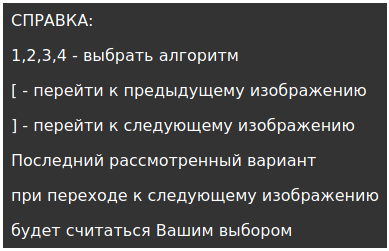
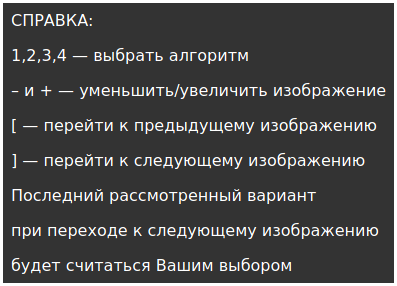
Added information about scrolling and zooming image to landing

Changed region(s): [[0.0, 0.0, 1.0, 1.0], [0.0308, 0.1673, 0.6478, 0.251]]

diff --git a/resources.js b/resources.js
@@ -4,9 +4,10 @@ let resources = {
         algorithm: 'Алгоритм',
         image: 'Изображение',
         help: 'СПРАВКА:',
-        help_select: '1,2,3,4 - выбрать алгоритм',
-        help_prev: '[ - перейти к предыдущему изображению',
-        help_next: '] - перейти к следующему изображению',
+        help_select: '1,2,3,4 — выбрать алгоритм',
+        help_zoom: '– и + — уменьшить/увеличить изображение',
+        help_prev: '[ — перейти к предыдущему изображению',
+        help_next: '] — перейти к следующему изображению',
         help_welcome: 'Вам покажут разные наборы картинок, выберите наиболее понравившиеся изображения',
         help_save_choice: ['Последний рассмотренный вариант', 'при переходе к следующему изображению', 'будет считаться Вашим выбором'],
         summary: 'Итог',

diff --git a/script.js b/script.js
@@ -212,6 +212,9 @@ function showSlideByPath(path) {
         textNode = document.createTextNode(`${textResources.help_select}`);
         helpText.appendChild(textNode);
         helpText.appendChild(document.createElement("p"));
+        textNode = document.createTextNode(`${textResources.help_zoom}`);
+        helpText.appendChild(textNode);
+        helpText.appendChild(document.createElement("p"));
         textNode = document.createTextNode(`${textResources.help_prev}`);
         helpText.appendChild(textNode);
         helpText.appendChild(document.createElement("p"));

diff --git a/README.md b/README.md
@@ -15,10 +15,14 @@
 <p align="center">
   <img src="./Selection_1.png" width="400">
 </p>
+* Чтобы лучше рассмотреть детали изображения его можно двигать, увеличивать и уменьшать. При переходе к другому изображению из набора увеличение и сдвиг сохраняются.
+<p align="center">
+  <img src="./Moving_1.gif" width="400">
+</p>  
 * Для Вашего удобства при прохождении опроса с компьютера реализована возможность использовать горячие клавиши, подробную подсказку вы найдете в верхнем правом углу при начале опроса.
 <p align="center">
   <img src="./Selection_2.png" width="400">
-</p>  
+</p>
 * Выбранный кадр помечается синим цветом автоматически. **Внимание:** при переключении к следующему набору в качестве  ответа сохраняется последний просматриваемый кадр, т.е. тот, чей номер помечен синим цветом.
 <p align="center">
   <img src="./Selection_3.png" width="400">
